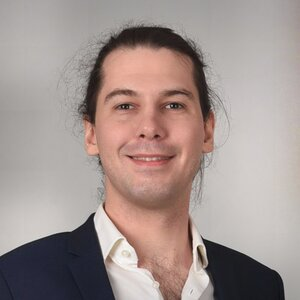
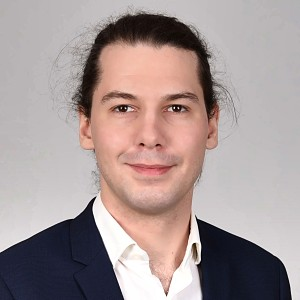
Use enhanced DSC_4389 as the profile picture

diff --git a/CODEBASE.md b/CODEBASE.md
@@ -16,4 +16,4 @@
 
 ## Images (`data/`)
 
-Only `profile.jpg` (300x300, made from the original `DSC_4401.png`) lives here: it is the profile picture and the `og:image`. Originals and GIMP sources are in the private repo `Kramer84/site-image-sources`. Older commits of this repo still contain them.
+Only `profile.jpg` (300x300, made by `enhance_profile.py` in the private repo from the original `DSC_4389.JPG`) lives here: it is the profile picture and the `og:image`. Originals and GIMP sources are in the private repo `Kramer84/site-image-sources`. Older commits of this repo still contain them.
